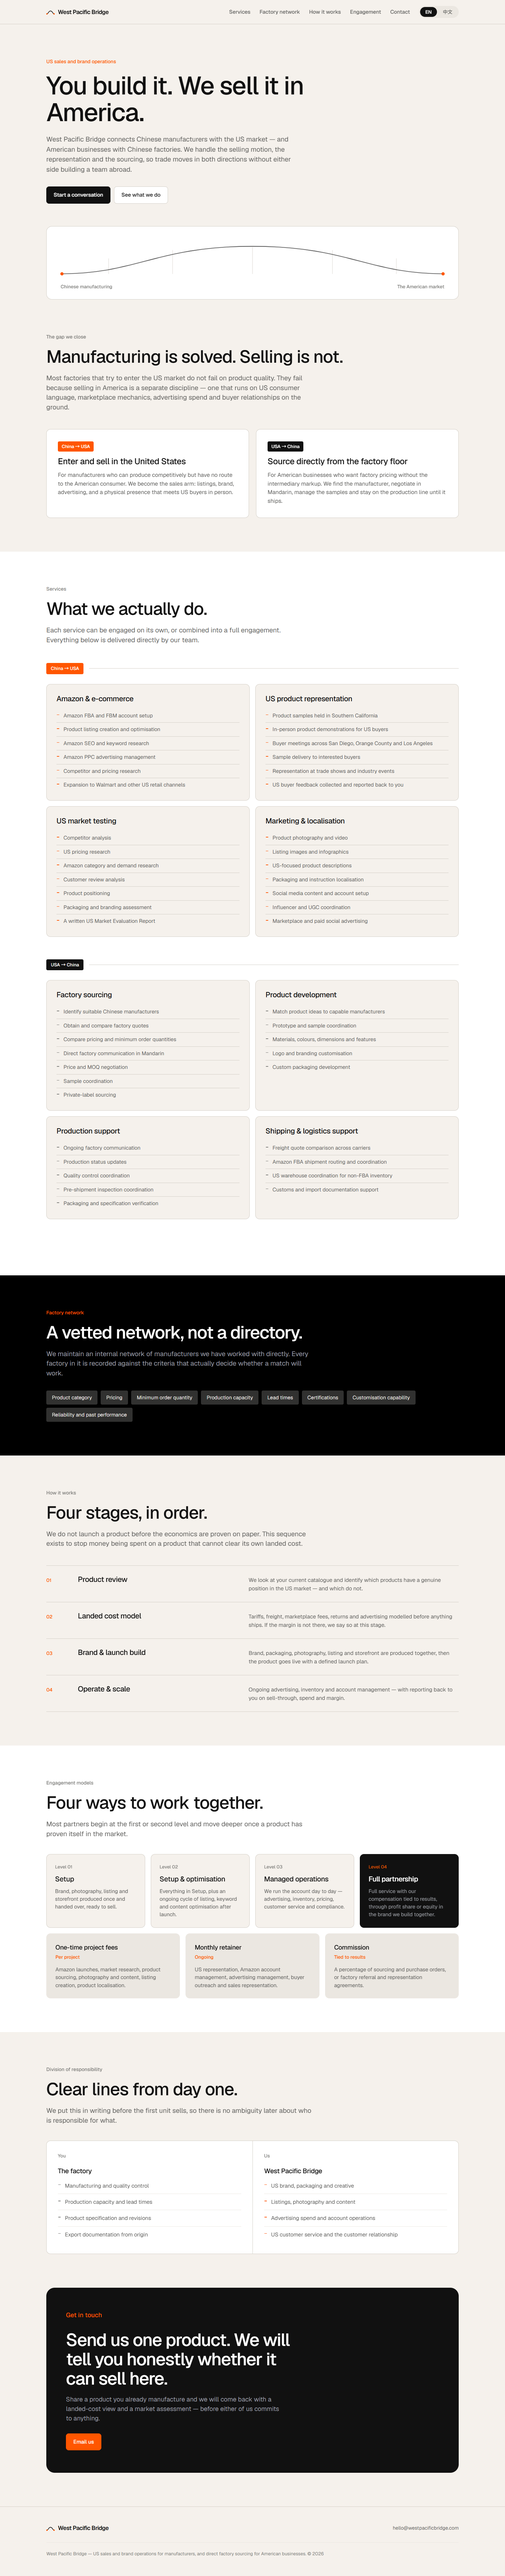
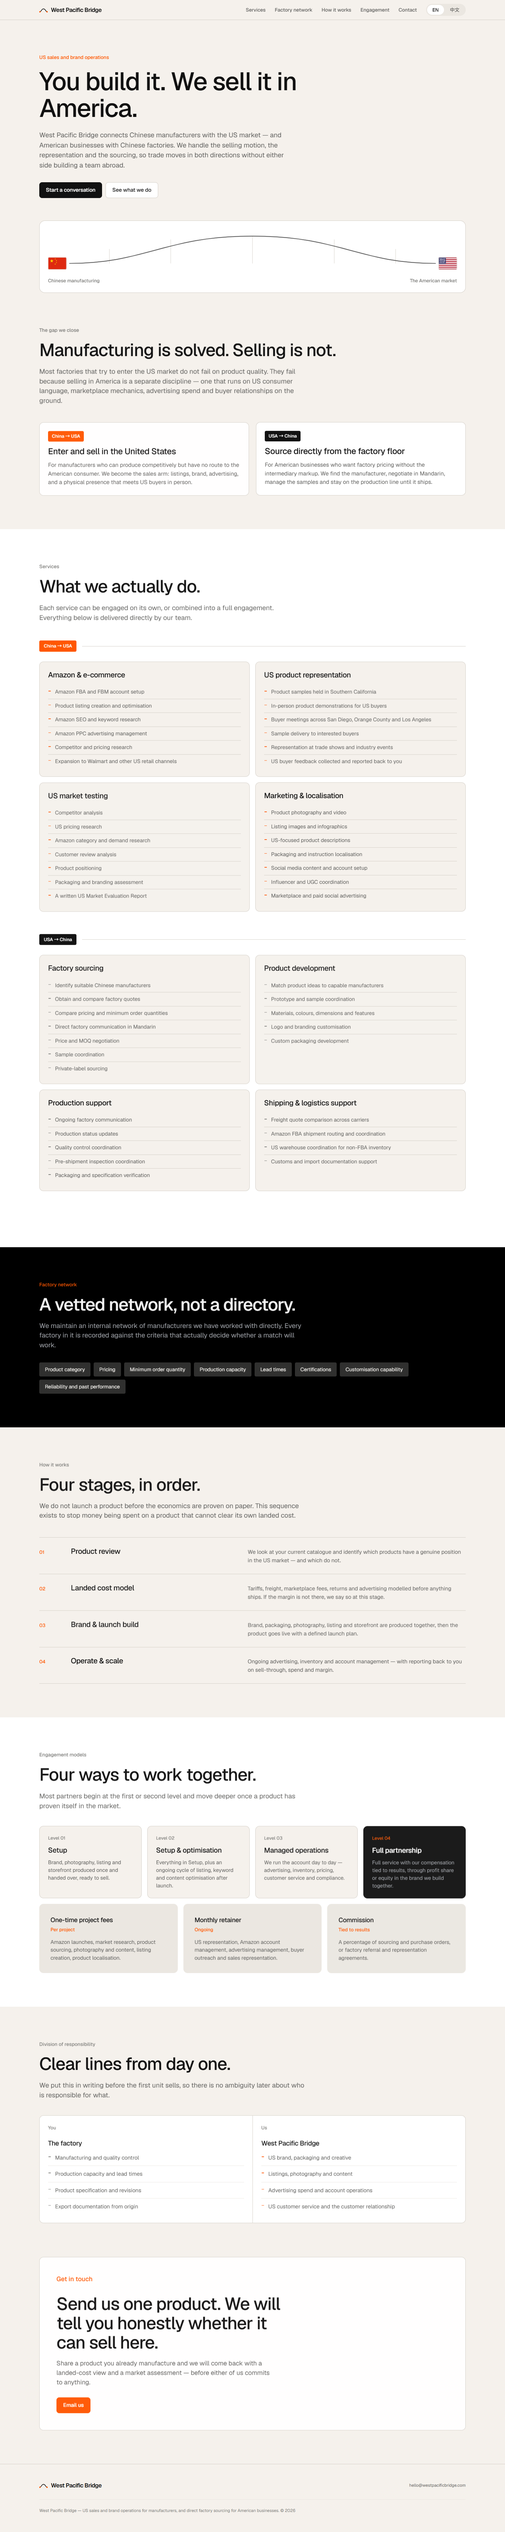
Add national flags to bridge graphic, tighten to Intercom spec
Bridge graphic:
- Replace the plain orange endpoint dots with the flags of China and the
  United States, drawn as inline SVG at each end of the span
- Drop preserveAspectRatio="none" so the flags scale uniformly instead of
  stretching; the curve renders identically because the element's aspect
  ratio already matches the viewBox

Bring the implementation in line with the Intercom component spec:
- top-nav height 56px, nav links at body-sm 14px
- buttons at 10px/18px padding
- language toggle follows the pricing-tab pattern (selected = white surface)
- card padding 24px (feature/pricing/mockup), discount card 32px
- CTA banner is surface-1 white with a hairline, radius 12px, padding 48px,
  rather than an inverted black card; true black stays reserved for the
  single factory-network callout band
- container 1280px, footer type at caption 12px

Claude-Session: https://claude.ai/code/session_019YQFyxFjGjLV2QwDfiYLZJ

diff --git a/index.html b/index.html
@@ -23,7 +23,7 @@
   --orange:#ff5600;
   --r-xs:4px; --r-md:8px; --r-lg:12px; --r-xl:16px; --r-xxl:24px; --r-pill:9999px;
   --font:"Geist","Noto Sans SC",ui-sans-serif,system-ui,sans-serif;
-  --maxw:1240px;
+  --maxw:1280px;
 }
 html[lang="zh"]{ --font:"Noto Sans SC","Geist",ui-sans-serif,system-ui,sans-serif; }
 *{box-sizing:border-box}
@@ -43,12 +43,12 @@ header{
   position:sticky;top:0;z-index:60;background:rgba(245,241,236,.86);
   backdrop-filter:blur(12px);border-bottom:1px solid var(--hairline);
 }
-.nav{display:flex;align-items:center;gap:26px;height:68px}
+.nav{display:flex;align-items:center;gap:26px;height:56px}
 .mark{display:flex;align-items:center;gap:9px;text-decoration:none;margin-right:auto;color:var(--ink)}
 .mark svg{flex:0 0 auto}
 .mark b{font-weight:600;font-size:16.5px;letter-spacing:-.03em;white-space:nowrap}
 .nav a.lnk{
-  color:var(--ink-muted);text-decoration:none;font-size:15px;font-weight:500;
+  color:var(--ink-muted);text-decoration:none;font-size:14px;font-weight:500;
   transition:color .18s;white-space:nowrap;
 }
 .nav a.lnk:hover{color:var(--ink)}
@@ -61,7 +61,7 @@ header{
   border:0;background:transparent;color:var(--ink-muted);padding:6px 15px;
   border-radius:var(--r-pill);transition:background .2s,color .2s;line-height:1.2;
 }
-.langtog button[aria-pressed="true"]{background:var(--ink);color:#fff}
+.langtog button[aria-pressed="true"]{background:var(--surface);color:var(--ink)}
 .langtog button[aria-pressed="false"]:hover{color:var(--ink)}
 
 /* ---------- type ---------- */
@@ -89,7 +89,7 @@ html[lang="zh"] .hero p.lede{line-height:1.8}
 .ctas{display:flex;flex-wrap:wrap;gap:10px;margin-bottom:64px}
 .btn{
   font-family:var(--font);font-size:15px;font-weight:500;text-decoration:none;
-  padding:12px 20px;border-radius:var(--r-md);display:inline-block;
+  padding:10px 18px;border-radius:var(--r-md);display:inline-block;
   transition:background .18s,border-color .18s,color .18s;
 }
 .btn-p{background:var(--ink);color:#fff;border:1px solid var(--ink)}
@@ -102,7 +102,7 @@ html[lang="zh"] .hero p.lede{line-height:1.8}
 /* bridge as the "product" card */
 .bridgecard{
   background:var(--surface);border:1px solid var(--hairline);border-radius:var(--r-xl);
-  padding:40px 40px 26px;margin-bottom:0;
+  padding:24px;margin-bottom:0;
 }
 .bridgecard svg{width:100%;height:auto;display:block;overflow:visible}
 .bridgecard .span-path{
@@ -111,7 +111,7 @@ html[lang="zh"] .hero p.lede{line-height:1.8}
   animation:draw 2s cubic-bezier(.65,0,.35,1) .4s forwards;
 }
 .bridgecard .cable{stroke:var(--hairline);stroke-width:1;opacity:0;animation:fadein .7s ease 1.7s forwards}
-.bridgecard .anchor{fill:var(--orange);opacity:0;animation:fadein .5s ease 1.5s forwards}
+.bridgecard .flag{opacity:0;animation:fadein .6s ease 1.5s forwards}
 @keyframes draw{to{stroke-dashoffset:0}}
 @keyframes fadein{to{opacity:1}}
 .bridge-ends{
@@ -130,7 +130,7 @@ html[lang="zh"] .hero p.lede{line-height:1.8}
 .dirs{display:grid;grid-template-columns:1fr 1fr;gap:20px;margin-top:48px}
 .dir{
   background:var(--surface);border:1px solid var(--hairline);border-radius:var(--r-lg);
-  padding:34px 32px;
+  padding:24px;
 }
 .band-white .dir{background:var(--canvas);border-color:var(--hairline)}
 .dir .arrow{
@@ -156,7 +156,7 @@ html[lang="zh"] .dir p{line-height:1.8}
 .groups{display:grid;grid-template-columns:repeat(2,1fr);gap:16px;margin-bottom:64px}
 .grp{
   background:var(--surface);border:1px solid var(--hairline);border-radius:var(--r-lg);
-  padding:28px 28px 24px;transition:border-color .2s;
+  padding:24px;transition:border-color .2s;
 }
 .band-white .grp{background:var(--canvas)}
 .grp:hover{border-color:var(--ink)}
@@ -198,7 +198,7 @@ html[lang="zh"] .step p{line-height:1.8}
 .tiers{display:grid;grid-template-columns:repeat(4,1fr);gap:16px;margin-top:44px}
 .tier{
   background:var(--surface);border:1px solid var(--hairline);border-radius:var(--r-lg);
-  padding:26px 24px;display:flex;flex-direction:column;transition:border-color .2s;
+  padding:24px;display:flex;flex-direction:column;transition:border-color .2s;
 }
 .band-white .tier{background:var(--canvas)}
 .tier:hover{border-color:var(--ink)}
@@ -214,7 +214,7 @@ html[lang="zh"] .tier p{line-height:1.75}
 
 /* ---------- fee models ---------- */
 .fees{display:grid;grid-template-columns:repeat(3,1fr);gap:16px;margin-top:16px}
-.fee{background:var(--surface-2);border-radius:var(--r-lg);padding:26px 26px}
+.fee{background:var(--surface-2);border-radius:var(--r-lg);padding:32px}
 .fee h4{font-size:18px;font-weight:500;margin:0 0 4px;letter-spacing:-.018em}
 html[lang="zh"] .fee h4{font-weight:700}
 .fee .when{font-size:13.5px;font-weight:500;color:var(--orange);margin:0 0 14px}
@@ -227,7 +227,7 @@ html[lang="zh"] .fee p{line-height:1.8}
   border-radius:var(--r-lg);overflow:hidden;border:1px solid var(--hairline);
   background:var(--surface);
 }
-.resp .col{padding:32px 32px}
+.resp .col{padding:24px}
 .resp .col+.col{border-left:1px solid var(--hairline)}
 .resp h3{font-size:19px;font-weight:500;margin:0 0 4px;letter-spacing:-.02em}
 html[lang="zh"] .resp h3{font-weight:700}
@@ -247,19 +247,20 @@ html[lang="zh"] .resp h3{font-weight:700}
 /* ---------- cta ---------- */
 .cta-band{padding:0 0 96px}
 .ctacard{
-  background:var(--ink);color:#fff;border-radius:var(--r-xxl);padding:64px 56px;
+  background:var(--surface);color:var(--ink);border:1px solid var(--hairline);
+  border-radius:var(--r-lg);padding:48px;
 }
 .ctacard .kicker{color:var(--orange)}
 .ctacard h2{max-width:20ch;margin-bottom:18px}
-.ctacard p{font-size:18px;color:#9c9fa5;max-width:52ch;margin:0 0 30px;line-height:1.5}
+.ctacard p{font-size:18px;color:var(--ink-muted);max-width:52ch;margin:0 0 30px;line-height:1.5}
 html[lang="zh"] .ctacard p{line-height:1.8}
 
 /* ---------- footer ---------- */
-footer{border-top:1px solid var(--hairline);padding:48px 0 40px;font-size:14px;color:var(--ink-subtle)}
+footer{border-top:1px solid var(--hairline);padding:48px 0 40px;font-size:12px;color:var(--ink-muted)}
 .fgrid{display:flex;flex-wrap:wrap;gap:30px;align-items:center;justify-content:space-between}
 footer a{color:var(--ink-muted);text-decoration:none}
 footer a:hover{color:var(--ink)}
-.fnote{font-size:13px;color:var(--ink-subtle);margin-top:28px;padding-top:22px;border-top:1px solid var(--hairline-soft)}
+.fnote{font-size:12px;color:var(--ink-subtle);margin-top:28px;padding-top:22px;border-top:1px solid var(--hairline-soft)}
 
 /* ---------- reveal ---------- */
 .rv{opacity:0;transform:translateY(14px);transition:opacity .6s cubic-bezier(.2,.8,.3,1),transform .6s cubic-bezier(.2,.8,.3,1)}
@@ -286,15 +287,15 @@ footer a:hover{color:var(--ink)}
   .groups,.tiers,.dirs,.resp{grid-template-columns:1fr}
   .groups{margin-bottom:48px}
   .resp .col+.col{border-left:0;border-top:1px solid var(--hairline)}
-  .bridgecard{padding:26px 22px 18px}
-  .ctacard{padding:44px 28px;border-radius:var(--r-xl)}
+  .bridgecard{padding:16px}
+  .ctacard{padding:28px 22px}
   .bridge-ends{font-size:12px}
 }
 @media (prefers-reduced-motion:reduce){
   *{animation-duration:.001s !important;transition-duration:.001s !important}
   .rv{opacity:1;transform:none}
   .bridgecard .span-path{stroke-dashoffset:0}
-  .bridgecard .cable,.bridgecard .anchor{opacity:1}
+  .bridgecard .cable,.bridgecard .flag{opacity:1}
 }
 </style>
 </head>
@@ -334,15 +335,37 @@ footer a:hover{color:var(--ink)}
   </div>
   <div class="wrap">
     <div class="bridgecard rv">
-      <svg viewBox="0 0 1200 120" preserveAspectRatio="none" aria-hidden="true">
-        <line class="cable" x1="150" y1="104" x2="150" y2="56"/>
-        <line class="cable" x1="350" y1="104" x2="350" y2="30"/>
-        <line class="cable" x1="600" y1="104" x2="600" y2="20"/>
-        <line class="cable" x1="850" y1="104" x2="850" y2="30"/>
-        <line class="cable" x1="1050" y1="104" x2="1050" y2="56"/>
-        <path class="span-path" d="M0 104 C 240 104, 300 18, 600 18 C 900 18, 960 104, 1200 104"/>
-        <circle class="anchor" cx="4" cy="104" r="5"/>
-        <circle class="anchor" cx="1196" cy="104" r="5"/>
+      <svg viewBox="0 0 1200 128" aria-hidden="true">
+        <defs>
+          <clipPath id="fclip"><rect width="54" height="36" rx="3.5"/></clipPath>
+          <polygon id="wpbstar" points="0,-4.5 1.011,-1.391 4.28,-1.391 1.636,0.531 2.645,3.641 0,1.72 -2.645,3.641 -1.636,0.531 -4.28,-1.391 -1.011,-1.391"/>
+        </defs>
+        <line class="cable" x1="180" y1="100" x2="180" y2="58"/>
+        <line class="cable" x1="360" y1="100" x2="360" y2="30"/>
+        <line class="cable" x1="600" y1="100" x2="600" y2="20"/>
+        <line class="cable" x1="840" y1="100" x2="840" y2="30"/>
+        <line class="cable" x1="1020" y1="100" x2="1020" y2="58"/>
+        <path class="span-path" d="M62 100 C 290 100, 340 20, 600 20 C 860 20, 910 100, 1138 100"/>
+        <svg class="flag" x="0" y="82" width="54" height="36" viewBox="0 0 54 36">
+          <g clip-path="url(#fclip)">
+            <rect width="54" height="36" fill="#de2910"/>
+            <use href="#wpbstar" fill="#ffde00" transform="translate(10.8,10.8) scale(1.2)"/>
+            <use href="#wpbstar" fill="#ffde00" transform="translate(21,5) scale(.46)"/>
+            <use href="#wpbstar" fill="#ffde00" transform="translate(24.6,9.6) scale(.46)"/>
+            <use href="#wpbstar" fill="#ffde00" transform="translate(24.6,15.4) scale(.46)"/>
+            <use href="#wpbstar" fill="#ffde00" transform="translate(21,20) scale(.46)"/>
+          </g>
+          <rect x=".5" y=".5" width="53" height="35" rx="3.2" fill="none" stroke="#d3cec6"/>
+        </svg>
+        <svg class="flag" x="1146" y="82" width="54" height="36" viewBox="0 0 54 36">
+          <g clip-path="url(#fclip)">
+            <rect width="54" height="36" fill="#ffffff"/>
+            <rect y="0.000" width="54" height="2.769" fill="#b22234"/><rect y="5.538" width="54" height="2.769" fill="#b22234"/><rect y="11.077" width="54" height="2.769" fill="#b22234"/><rect y="16.615" width="54" height="2.769" fill="#b22234"/><rect y="22.154" width="54" height="2.769" fill="#b22234"/><rect y="27.692" width="54" height="2.769" fill="#b22234"/><rect y="33.231" width="54" height="2.769" fill="#b22234"/>
+            <rect width="21.6" height="19.385" fill="#3c3b6e"/>
+            <g fill="#ffffff"><circle cx="3.6" cy="3.9" r=".85"/><circle cx="7.2" cy="3.9" r=".85"/><circle cx="10.8" cy="3.9" r=".85"/><circle cx="14.4" cy="3.9" r=".85"/><circle cx="18" cy="3.9" r=".85"/><circle cx="3.6" cy="9.7" r=".85"/><circle cx="7.2" cy="9.7" r=".85"/><circle cx="10.8" cy="9.7" r=".85"/><circle cx="14.4" cy="9.7" r=".85"/><circle cx="18" cy="9.7" r=".85"/><circle cx="3.6" cy="15.5" r=".85"/><circle cx="7.2" cy="15.5" r=".85"/><circle cx="10.8" cy="15.5" r=".85"/><circle cx="14.4" cy="15.5" r=".85"/><circle cx="18" cy="15.5" r=".85"/><circle cx="5.4" cy="6.8" r=".85"/><circle cx="9" cy="6.8" r=".85"/><circle cx="12.6" cy="6.8" r=".85"/><circle cx="16.2" cy="6.8" r=".85"/><circle cx="5.4" cy="12.6" r=".85"/><circle cx="9" cy="12.6" r=".85"/><circle cx="12.6" cy="12.6" r=".85"/><circle cx="16.2" cy="12.6" r=".85"/></g>
+          </g>
+          <rect x=".5" y=".5" width="53" height="35" rx="3.2" fill="none" stroke="#d3cec6"/>
+        </svg>
       </svg>
       <div class="bridge-ends">
         <span data-i18n="bridge.l">Chinese manufacturing</span>
